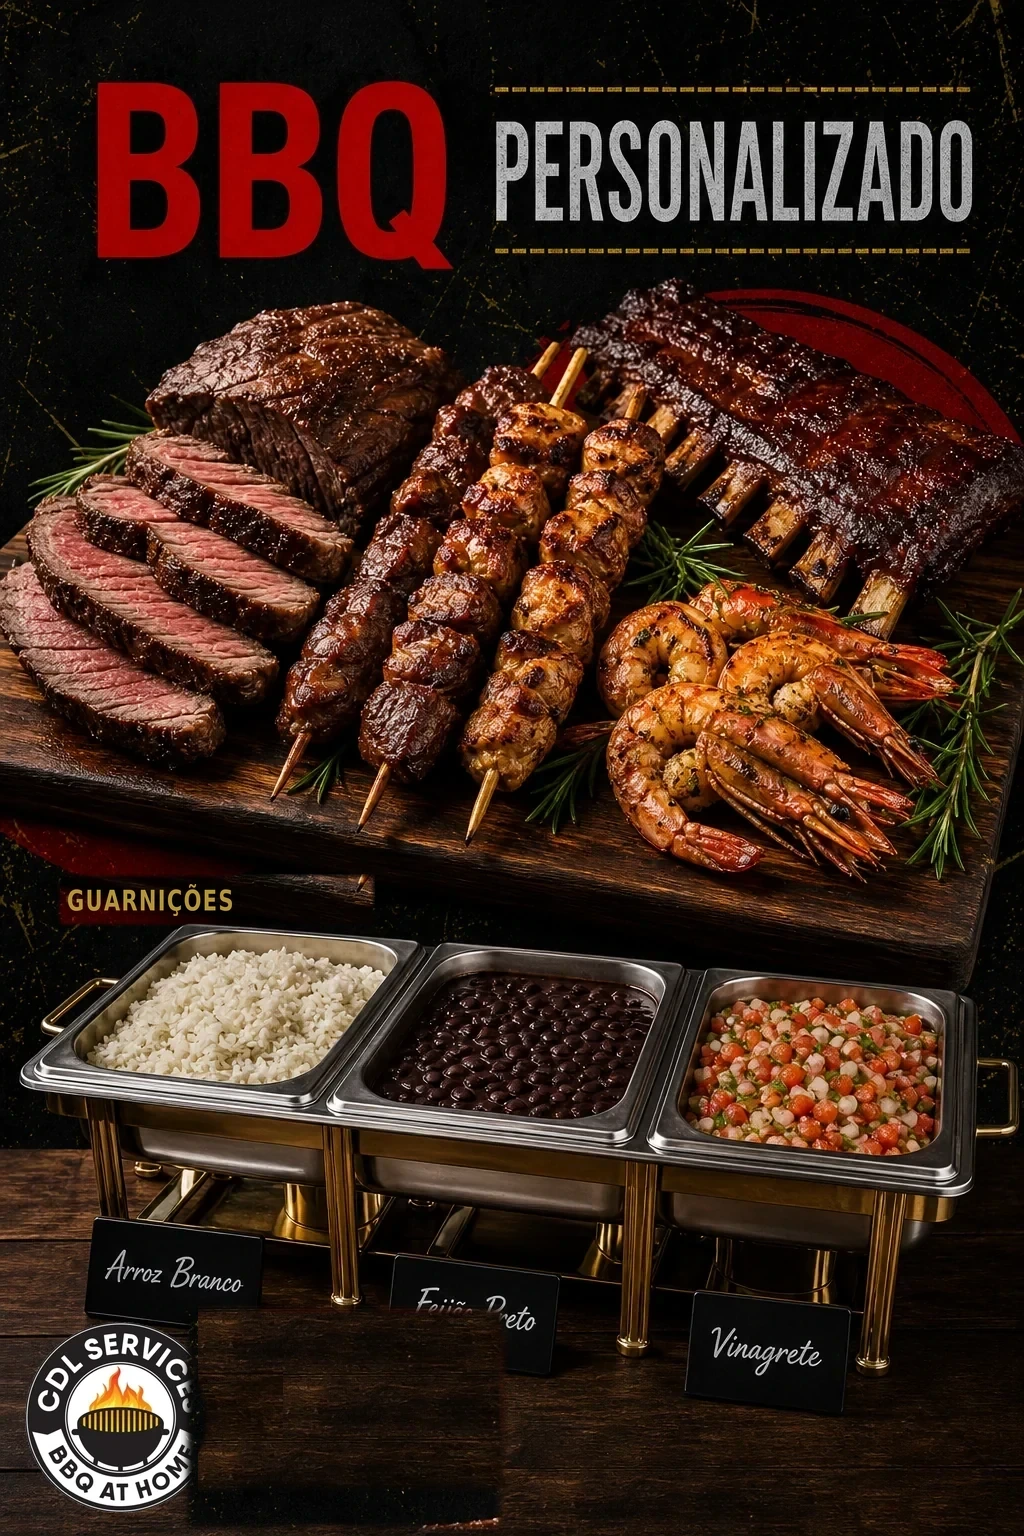
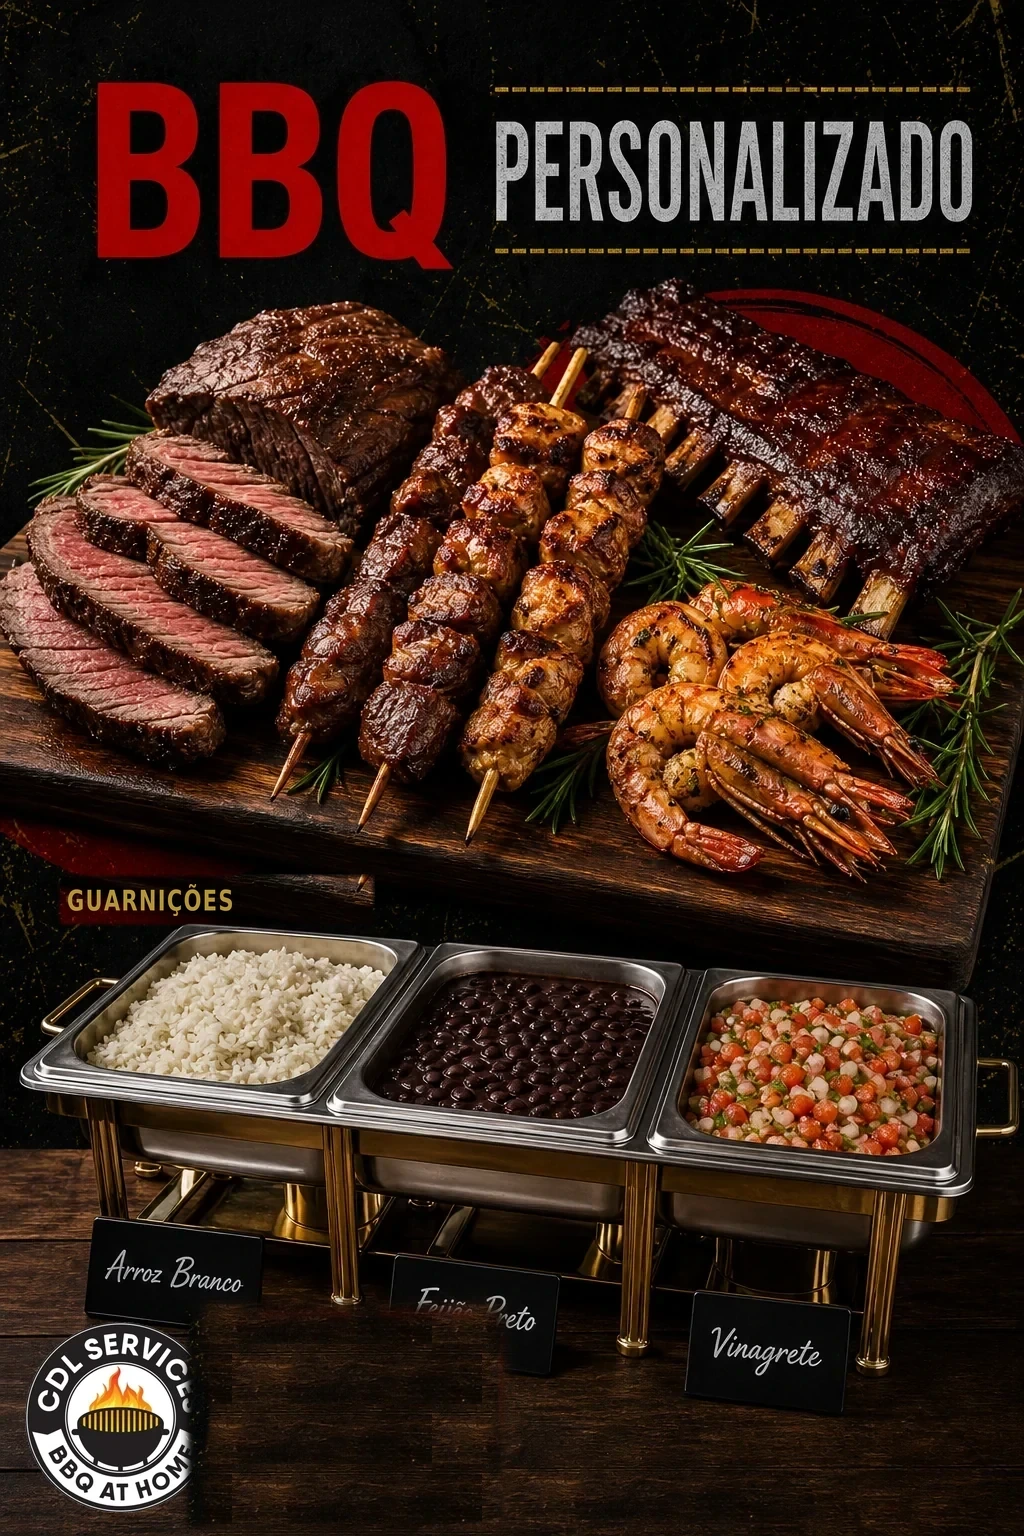
fix(public-quote): rebuild plus-PT wood over the leftover plate
Replace the black rectangle beside the CDL mark on BBQ Personalizado
com guarnições with feathered native wood and restore the official logo.

diff --git a/Lib/packageCatalogVisual.ts b/Lib/packageCatalogVisual.ts
@@ -132,7 +132,10 @@ export function getPackageFolderArt(
   if (!base) return null
   const url = `${base}/storage/v1/object/public/${PACKAGE_FOLDER_BUCKET}/${PACKAGE_FOLDER_PREFIX}/${file}`
   // Personalized folders were repaired in place; bust the year-long cache
-  // on those six objects only. Other V3 art keeps the stored filename.
+  // on those objects only. Other V3 art keeps the stored filename.
+  if (file === 'bbqpers-plus-pt-v3.webp') {
+    return `${url}?v=bbfix2`
+  }
   if (file.startsWith('bbqpers-')) {
     return `${url}?v=bbfix1`
   }

diff --git a/scripts/dev/remove-folder-black-square.py b/scripts/dev/remove-folder-black-square.py
@@ -1,0 +1,152 @@
+"""Remove the leftover black plate + BB on BBQPERS+ (with-sides) only.
+
+The personalized-with-sides flyers still carry a leftover layer: a dark
+rectangle and red BB sitting between GUARNIÇÕES and the official CDL mark.
+Earlier tiling left a visible black square. This rebuilds that small area
+from the flyer’s own wood, feathers every edge, then copies the official
+mark back from the original so the logo never gets covered.
+
+Does not touch BBQPERS without sides.
+
+Run: python3 scripts/dev/remove-folder-black-square.py [--dry-run]
+"""
+import json
+import os
+import sys
+
+import cv2
+import numpy as np
+
+ROOT = os.path.join(os.path.dirname(os.path.abspath(__file__)), '..', '..')
+PACKAGES = os.path.join(ROOT, 'assets', 'packages')
+FOLDERS = os.path.join(PACKAGES, 'folders-v3')
+BACKUP = '/tmp/folders-v3-backup'
+MARKS = os.path.join(PACKAGES, 'folder-badge-locations.json')
+REPORT = os.path.join(PACKAGES, 'folder-black-square-removal.json')
+
+# hole = leftover plate + BB. strip = clean wood on the same flyer.
+JOBS = {
+    'bbqpers-plus-pt-v3.webp': {
+        'hole': (204, 1306, 300, 226),
+        'strip': (520, 1460, 250, 60),
+        'mark_key': 'bbqpers-plus-pt-v2.webp',
+    },
+}
+
+
+def mark_circle(mark, pad=6):
+    cx = mark['x'] + mark['size'] // 2
+    cy = mark['y'] + mark['size'] // 2
+    radius = int(mark['size'] * 0.52) + pad
+    return cx, cy, radius
+
+
+def tile_strip(strip, width, height):
+    sh, sw = strip.shape[:2]
+    reps_x = int(np.ceil(width / sw)) + 2
+    reps_y = int(np.ceil(height / sh)) + 2
+    tiled = np.tile(strip, (reps_y, reps_x, 1))
+    if sh > 4 and reps_y > 1:
+        shift = max(12, sw // 5)
+        for i in range(1, reps_y):
+            y0 = i * sh
+            tiled[y0:y0 + sh] = np.roll(tiled[y0:y0 + sh], shift * (i % 2), axis=1)
+    return tiled[:height, :width]
+
+
+def feather_mask(h, w, border):
+    mask = np.ones((h, w), np.float32)
+    for i in range(border):
+        t = (i + 1) / (border + 1)
+        # cosine ease so the rectangle does not print as a hard plate
+        t = 0.5 - 0.5 * np.cos(np.pi * t)
+        mask[i, :] *= t
+        mask[h - 1 - i, :] *= t
+        mask[:, i] *= t
+        mask[:, w - 1 - i] *= t
+    return mask
+
+
+def load_source(name):
+    backup = os.path.join(BACKUP, name)
+    current = os.path.join(FOLDERS, name)
+    if os.path.exists(backup):
+        return cv2.imread(backup, cv2.IMREAD_COLOR)
+    return cv2.imread(current, cv2.IMREAD_COLOR)
+
+
+def main():
+    dry = '--dry-run' in sys.argv
+    with open(MARKS, encoding='utf-8') as fh:
+        marks = json.load(fh)
+
+    report = {}
+    for name, job in sorted(JOBS.items()):
+        image = load_source(name)
+        if image is None:
+            report[name] = 'missing'
+            continue
+
+        hx, hy, hw, hh = job['hole']
+        sx, sy, sw, sh = job['strip']
+        hx = max(0, hx)
+        hy = max(0, hy)
+        hw = min(hw, image.shape[1] - hx)
+        hh = min(hh, image.shape[0] - hy)
+        strip = image[sy:sy + sh, sx:sx + sw]
+        if strip.size == 0 or strip.shape[0] < 8 or strip.shape[1] < 8:
+            report[name] = 'strip missing'
+            continue
+
+        # Expand into clean wood so the fade is wood-on-wood, never plate-on-wood.
+        pad = 22
+        ex = max(0, hx - pad)
+        ey = max(0, hy - pad)
+        ew = min(image.shape[1] - ex, hw + pad * 2)
+        eh = min(image.shape[0] - ey, hh + pad * 2)
+        fill = tile_strip(strip, ew, eh)
+        original = image.copy()
+        alpha = np.zeros((eh, ew), np.float32)
+        ix0, iy0 = hx - ex, hy - ey
+        alpha[iy0:iy0 + hh, ix0:ix0 + hw] = 1.0
+        alpha = cv2.GaussianBlur(alpha, (0, 0), 7.5)
+        alpha = np.clip(alpha, 0, 1)[:, :, None]
+        patched = image.copy()
+        target = image[ey:ey + eh, ex:ex + ew].astype(np.float32)
+        patched[ey:ey + eh, ex:ex + ew] = np.clip(
+            fill.astype(np.float32) * alpha + target * (1.0 - alpha),
+            0,
+            255,
+        ).astype(np.uint8)
+
+        mark = marks.get(job['mark_key'])
+        if mark:
+            protect = np.zeros(image.shape[:2], np.uint8)
+            cx, cy, radius = mark_circle(mark, pad=4)
+            cv2.circle(protect, (cx, cy), radius, 255, -1)
+            protect = cv2.GaussianBlur(protect, (0, 0), 1.8)
+            weight = protect[:, :, None].astype(np.float32) / 255.0
+            patched = np.clip(
+                original.astype(np.float32) * weight
+                + patched.astype(np.float32) * (1.0 - weight),
+                0,
+                255,
+            ).astype(np.uint8)
+
+        dest = os.path.join(FOLDERS, name)
+        if not dry:
+            cv2.imwrite(dest, patched, [cv2.IMWRITE_WEBP_QUALITY, 92])
+        report[name] = f'removed {hw}x{hh} using strip {sw}x{sh} at {sx},{sy}'
+
+    with open(REPORT, 'w', encoding='utf-8') as fh:
+        json.dump(report, fh, indent=2)
+        fh.write('\n')
+
+    for name, note in sorted(report.items()):
+        print(f'  {name}: {note}')
+    print(f"cleared {sum(str(v).startswith('removed') for v in report.values())} of {len(report)}")
+    return 0
+
+
+if __name__ == '__main__':
+    raise SystemExit(main())
